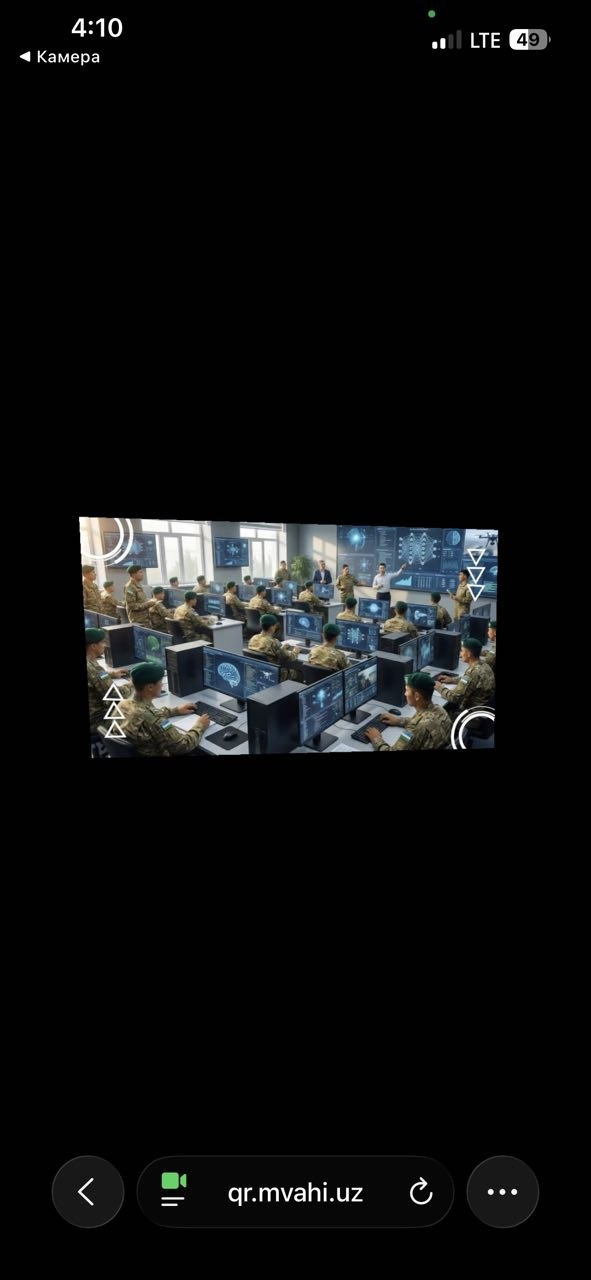
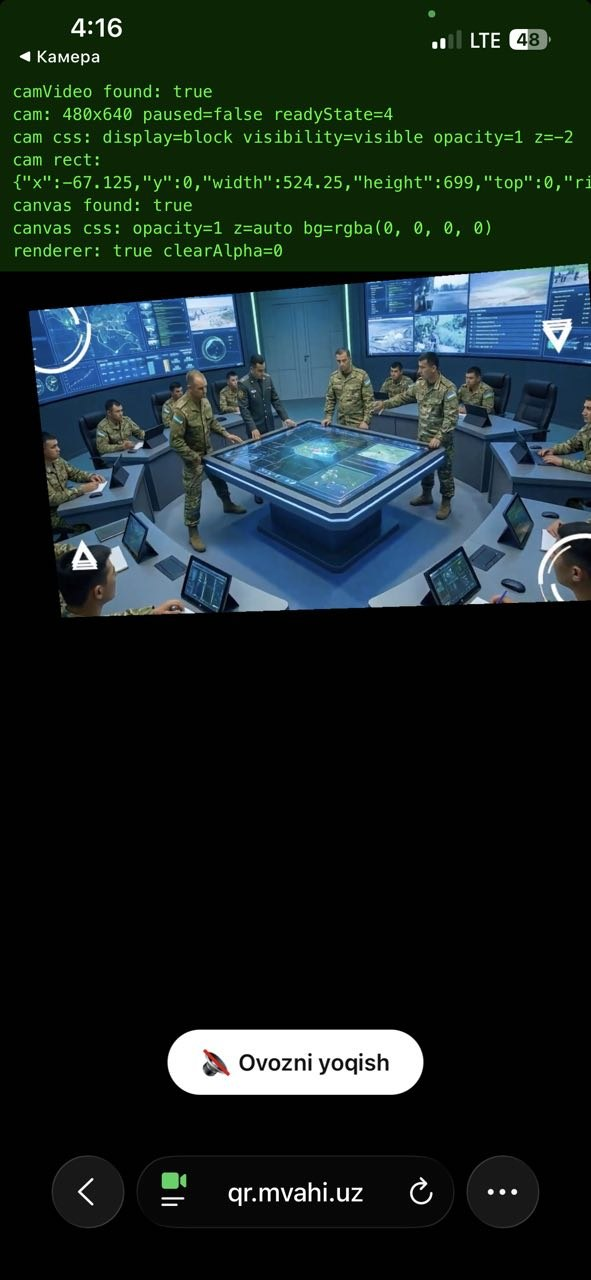
fix phone

diff --git a/resources/views/ar/show.blade.php b/resources/views/ar/show.blade.php
@@ -131,6 +131,7 @@
 
         sceneEl.addEventListener('renderstart', () => {
             sceneEl.renderer.setClearColor(0x000000, 0);
+            sceneEl.object3D.background = null;
         });
 
         const debugEl = document.querySelector('#ar-debug');
@@ -153,6 +154,7 @@
                 lines.push('canvas css: opacity=' + cs2.opacity + ' z=' + cs2.zIndex + ' bg=' + cs2.backgroundColor);
             }
             lines.push('renderer: ' + !!sceneEl.renderer + ' clearAlpha=' + (sceneEl.renderer ? sceneEl.renderer.getClearAlpha() : 'n/a'));
+            lines.push('scene.bg: ' + (sceneEl.object3D ? sceneEl.object3D.background : 'n/a'));
             debugEl.textContent = lines.join('\n');
         }, 1000);
 